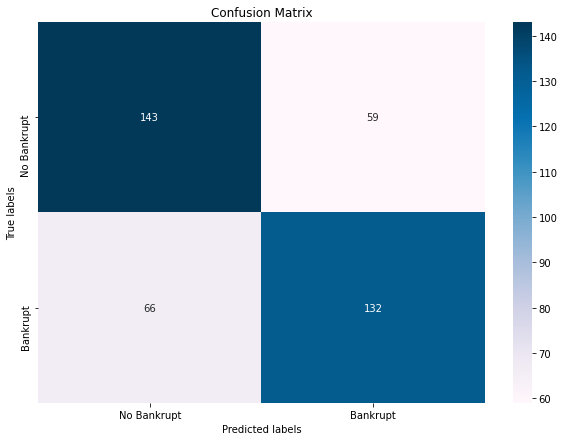
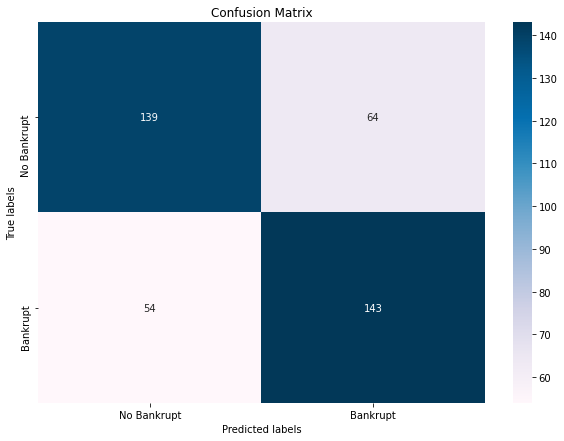
Update 70

diff --git a/README.md b/README.md
@@ -141,14 +141,55 @@ So the dataset is unbalanced, the potability class is just 39.01%. This means th
 ### Check Values
 It is important also to check if all the data are normalized. So if the code finds some values that are bigger than 1 and lower than 0, a normalization step will be performed. Unfortunately the dataset isn't all normalized.
 
+### Outliers and Skewness
+We also checked if there are many outliers and if the data are skewed. First we analyzed a box plot chart.
+
+![Boxplot](img/boxplot.png)
+
+As we can see there are a lot of outliers (the points on the left and on the right of the bars).
+After we plotted a distplot to check if data are skewed.
+
+![Distplot](img/distplot.png)
+
+As we can see some data are skewed, this means that the mode, median and mean won’t be on the same line.
+
+![Mode-Median-Mean](img/mode-median-mean.png)
+
+We have some columns that are positively skewed and some that are negatively skewed.
+### Correlation
+Next we checked the correlation to see if there is some statistical relationship between the data.
+
+![Correlation](img/correlation.png)
+
+We can see that there is no relationship between data.
+
+
 ## Fix Null Values
 
 In this section we will fill the null values of the columns: ph, sulfate and trihalomethanes. We will fill the null values with the columns mean.
 
-```
-df.ph = df.ph.fillna(df.ph.mean())
-df.Sulfate = df.Sulfate.fillna(df.Sulfate.mean())
-df.Trihalomethanes = df.Trihalomethanes.fillna(df.Trihalomethanes.mean())
+There are three options to fix null values:
+* **mean**: If there are outliers this is not the best solution
+* **median**: If there are outliers this is recommended
+* **drop**: If there are few rows this could be the worse because we lose many data
+
+```python
+# solution = "mean"
+solution = "median"
+# solution = "drop"
+
+if solution == "mean":
+  df.ph = df.ph.fillna(df.ph.mean())
+  df.Sulfate = df.Sulfate.fillna(df.Sulfate.mean())
+  df.Trihalomethanes = df.Trihalomethanes.fillna(df.Trihalomethanes.mean())
+elif solution == "median":
+  df.ph = df.ph.fillna(df.ph.median())
+  df.Sulfate = df.Sulfate.fillna(df.Sulfate.median())
+  df.Trihalomethanes = df.Trihalomethanes.fillna(df.Trihalomethanes.median())
+else:
+  df = df.dropna()
+
+
 ```
 
 ## Data Normalization
@@ -229,7 +270,7 @@ There is also a section to load a model. To do this it's important to follow the
 4. Run the load data section
 
 # Best model analysis
-In this section we will analyze the best model that we achieved.
+In this section we will analyze the best model that we achieved. This is the best model achieved in terms of accuracy. This model uses the median to substitute the null values.
 
 ## Network structure
 
@@ -278,14 +319,14 @@ In this section we will see how well the network perform on the training set.
 
 | Accuracy | Loss |
 |:--------:|:----:|
-| 68.75 % | 0.5980 |
+| 70.50 % | 0.5884 |
 
 0.6283611059188843, 0.6725000143051147
 
 | Class | Precision | Recall | f1-score | support |
 |:-----:|:---------:|:------:|:--------:|:-------:|
-| 0 | 0.68 | 0.71 | 0.70 | 202 |
-| 1 | 0.69 | 0.67 | 0.68 | 198 |
+| 0 | 0.72 | 0.68 | 0.70 | 203 |
+| 1 | 0.69 | 0.73 | 0.71 | 197 |
 
 ### Confusion Matrix
 
